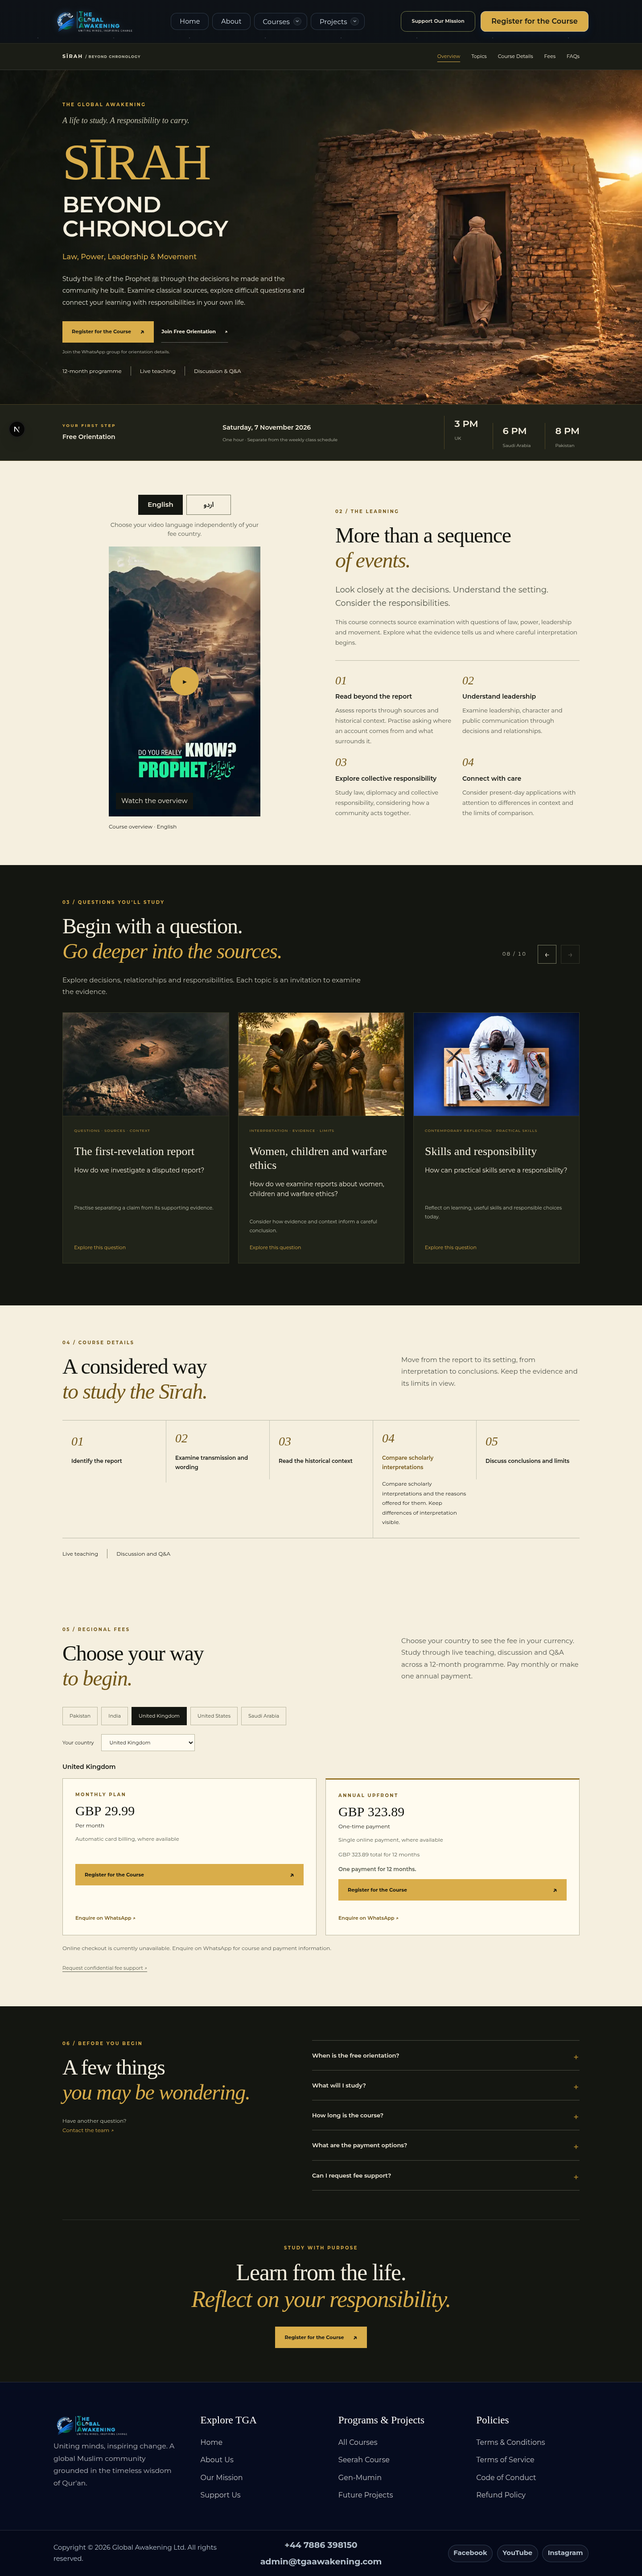
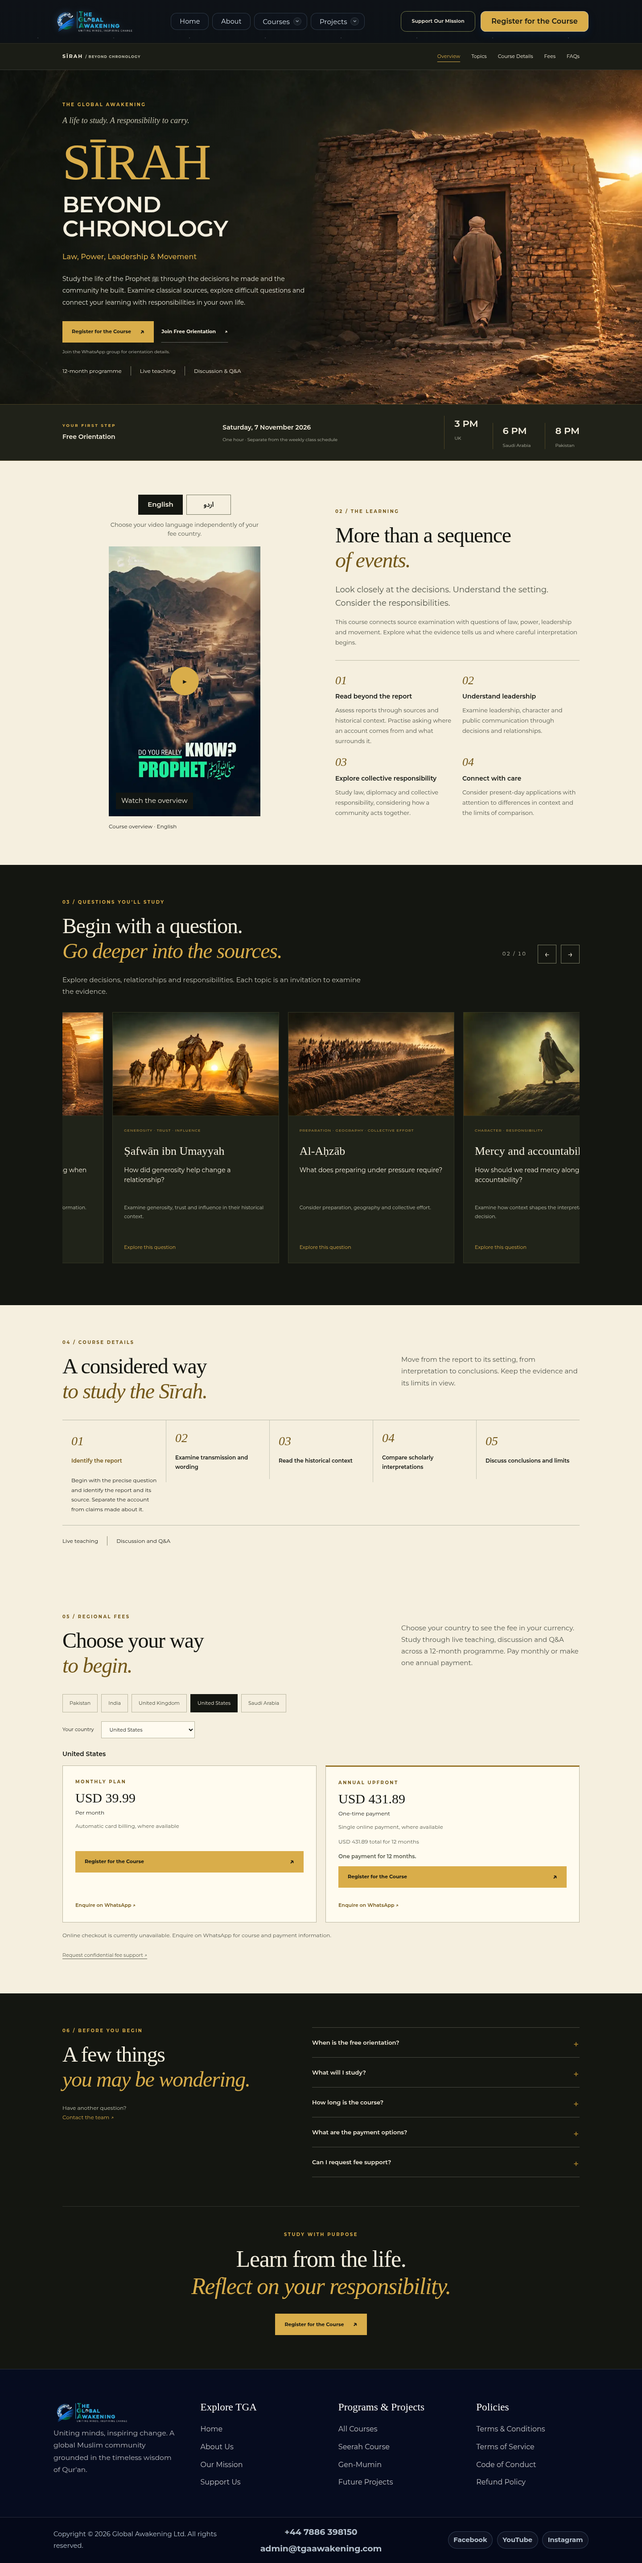
Fix encoded campaign image delivery and capture production previews

diff --git a/components/seerah/seerah-page.tsx b/components/seerah/seerah-page.tsx
@@ -161,11 +161,12 @@ function TopicGallery() {
             >
               {topic.artwork ? (
                 <Image
-                  src={topic.artwork.src}
+                  src={topic.artwork.src.includes(",") ? encodeURI(topic.artwork.src).replaceAll(",", "%2C") : topic.artwork.src}
                   alt={topic.artwork.alt}
                   width={topic.artwork.width}
                   height={topic.artwork.height}
                   style={{ objectPosition: topic.artwork.position || "center" }}
+                  unoptimized={topic.artwork.src.includes(",")}
                   loading="lazy"
                   sizes="(max-width: 760px) 85vw, 33vw"
                 />

diff --git a/docs/SEERAH_CAMPAIGN_ASSETS.md b/docs/SEERAH_CAMPAIGN_ASSETS.md
@@ -13,7 +13,7 @@ Both original Git LFS objects were retrieved and probed as real playable H.264/A
 | `public/Seerah new/Comp 1.mp4` | English | 50.25 seconds | 284,857,208 bytes | `/videos/sirah-preview-en.mp4` — 8,348,385 bytes |
 | `public/Seerah new/Comp 1r2.mp4` | Urdu | 51.32 seconds | 290,110,980 bytes | `/videos/sirah-preview-ur.mp4` — 8,137,804 bytes |
 
-The delivery copies retain the complete 9:16 frame at 720×1280, H.264/AAC, with fast-start MP4 metadata. They are ordinary Git files, so hosting does not depend on downloading LFS objects during the build. The original LFS assets remain untouched. Separate extracted JPEG thumbnails are used; no made-up captions are attached. Playback uses native controls and click-to-play, and no video is downloaded before play. Changing language pauses/removes the previous player. Pakistan suggests Urdu; other countries suggest English. An explicit language choice is remembered independently from country.
+The delivery copies retain the complete 9:16 frame at 720×1280, H.264/AAC, with fast-start MP4 metadata. They are ordinary Git files, so hosting does not depend on downloading LFS objects during the build. The original LFS assets remain untouched and their SHA-256 hashes match their committed pointers. Separate extracted JPEG thumbnails are used; no made-up captions are attached. Playback uses native controls and click-to-play, and no video is downloaded before play. Changing language pauses/removes the previous player. Pakistan suggests Urdu; other countries suggest English. An explicit language choice is remembered independently from country.
 
 Recreate a delivery copy with installed FFmpeg (English example):
 
@@ -32,6 +32,7 @@ All primary course registration actions link to the existing `/seerah/register` 
 - Browser checks passed at 360, 390, 768, 1024 and 1440 px: no page overflow, keyboard-accessible exploration/stepper, registration preferences, independent/persistent language, and WCAG A/AA checks in the main content.
 - Both delivery videos reached `canplay` in Chromium and preserved their portrait dimensions. All ten topic images decoded successfully; hero, thumbnails and homepage artwork were checked in the browser.
 - Five campaign/asset tests and 24 database workflow tests passed. The latter include pre-migration readiness without changing legacy records.
+- Production-mode local HTTP checks returned `206 video/mp4` with correct content ranges for both delivery copies. All supplied images decoded in the production-mode browser; the comma-named council PNG uses a percent-encoded direct URL because Next’s image optimizer/static URL handling rejects an unescaped comma.
 - Public-host verification must separately confirm an MP4 response (`ftyp`, video content type), byte-range support and playback after deployment. A GitHub push alone is not proof that DigitalOcean finished deploying.
 
 Screenshots: [desktop](sirah-registration/campaign-1440.png), [mobile](sirah-registration/campaign-390.png).

diff --git a/docs/seerah-beyond-chronology-review.md b/docs/seerah-beyond-chronology-review.md
@@ -1,3 +1,5 @@
+> Historical initial review notes. The current campaign artwork and registration behaviour are documented in [SEERAH_CAMPAIGN_ASSETS.md](SEERAH_CAMPAIGN_ASSETS.md) and [SIRAH_REGISTRATION_WORKFLOW.md](SIRAH_REGISTRATION_WORKFLOW.md). Asset-related pending items below have since been resolved.
+
 # Sīrah | Beyond Chronology — review version
 
 The `/seerah` route replaces the previous campaign content while reusing the shared Header and Footer. It has six sections, scoped charcoal/ivory/gold styling, locally hosted Montserrat (OFL licence included), a manual/swipe/keyboard topic gallery, inline topic details, native curriculum/FAQ expanders, editable country selection and a mobile action bar.
